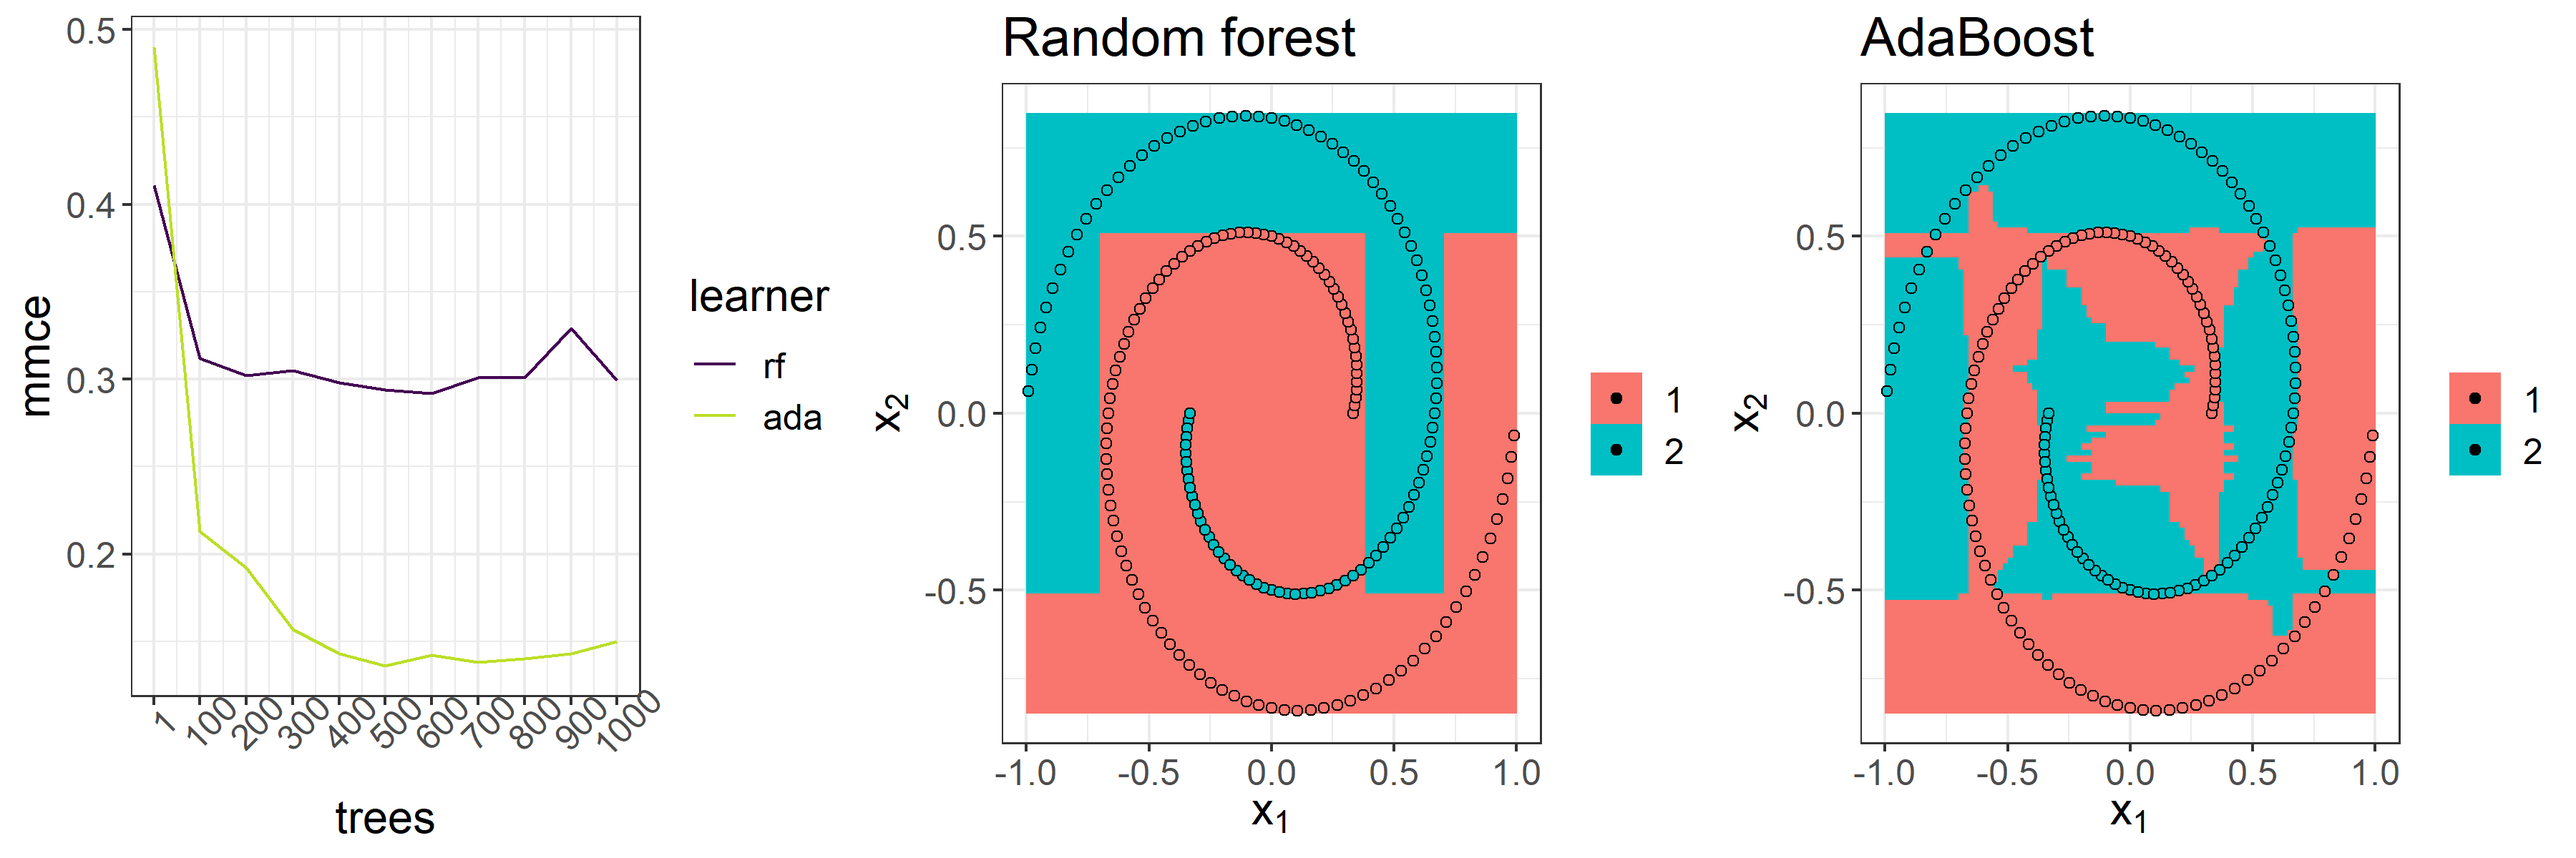
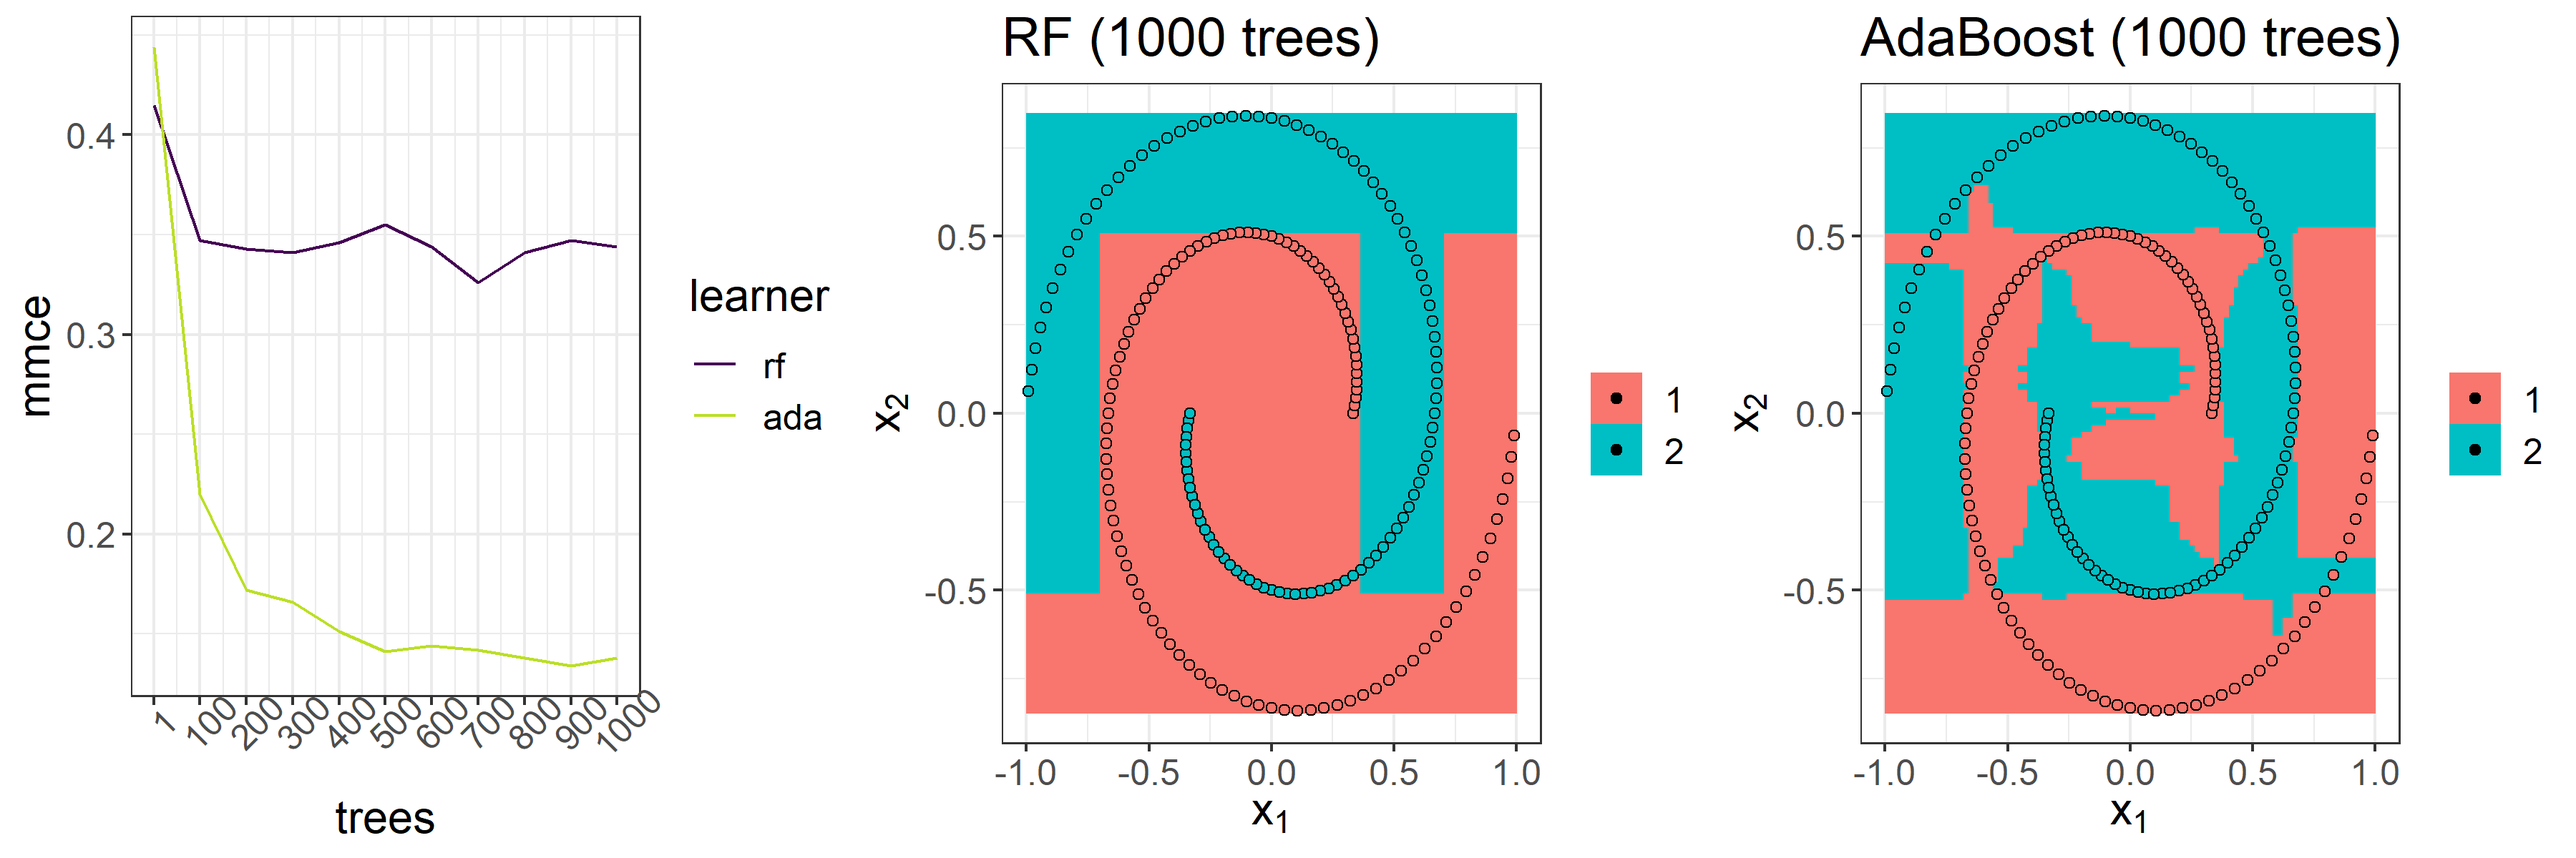
finished migrating intro examples to mlr3

diff --git a/slides/boosting/slides-boosting-intro-adaboost.tex b/slides/boosting/slides-boosting-intro-adaboost.tex
@@ -353,35 +353,14 @@ Weak learners do not work well with bagging as only variance, but no bias reduct
 Historically, the overfitting behavior of AdaBoost was often discussed.
 % Random Forest versus AdaBoost on \texttt{Spirals} data from \texttt{mlbench} ($n=200$, $sd=0.3$).
 % With $5 \times 5$ repeated CV
-Increasing standard deviation to $sd = 0.3$ (all else being equal), AdaBoost 
-overfits with increasing number of trees while the RF only saturates.
+Increasing standard deviation to $sd = 0.3$ and allowing for more flexibility in 
+the base learners, AdaBoost overfits with increasing number of trees while the 
+RF only saturates.
 The overfitting of AdaBoost here is quite typical as data is very noisy.
 
 \vfill
 
 \includegraphics[width=\textwidth]{figure/stump_plots_noisy.png}
-
-
-% \begin{columns}
-% \begin{column}{0.33\textwidth}
-% \begin{center}
-% \includegraphics[width=3.5cm]{figure_man/overfitting_plot_ntree.png}
-% \end{center}
-% \end{column}
-% \begin{column}{0.33\textwidth}
-% \begin{center}
-% \includegraphics[width=3.5cm]{figure_man/overfitting_plot_rf.png}
-% \end{center}
-% \end{column}
-% \begin{column}{0.33\textwidth}
-% \begin{center}
-% \includegraphics[width=3.5cm]{figure_man/overfitting_plot_boost.png}
-% \end{center}
-% \end{column}
-% \end{columns}
-% 
-% \lz
-
 
 \end{vbframe}
 
